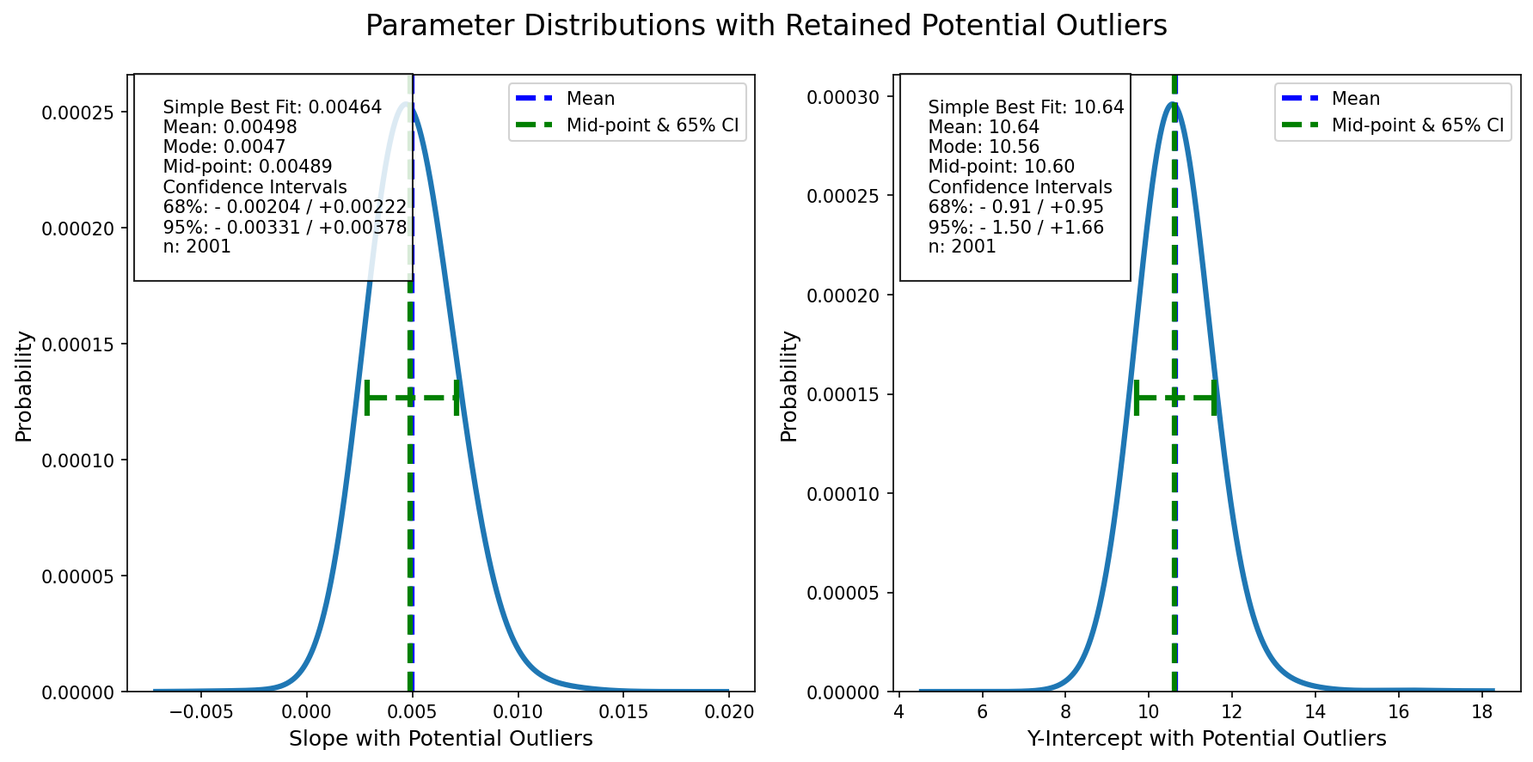
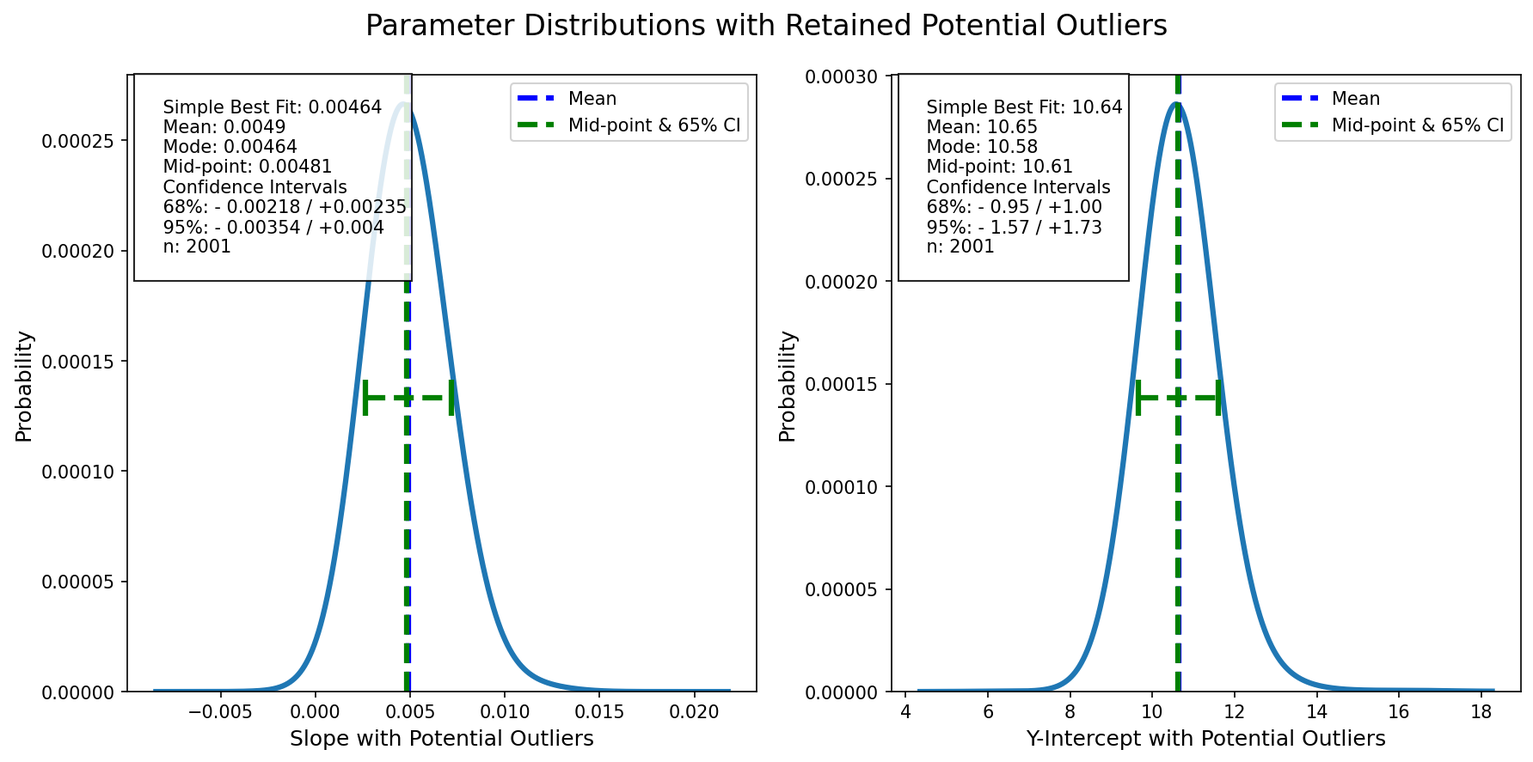
cleaned up readme and docs to reference new figures generated by examples.py

diff --git a/docs/source/_static/calibration_results.html b/docs/source/_static/calibration_results.html
@@ -1,64 +1,64 @@
-<div id="tjdybrfkrb" style="padding-left:0px;padding-right:0px;padding-top:10px;padding-bottom:10px;overflow-x:auto;overflow-y:auto;width:auto;height:auto;">
+<div id="aoakaakugw" style="padding-left:0px;padding-right:0px;padding-top:10px;padding-bottom:10px;overflow-x:auto;overflow-y:auto;width:auto;height:auto;">
 <style>
-#tjdybrfkrb table {
+#aoakaakugw table {
           font-family: -apple-system, BlinkMacSystemFont, 'Segoe UI', Roboto, Oxygen, Ubuntu, Cantarell, 'Helvetica Neue', 'Fira Sans', 'Droid Sans', Arial, sans-serif;
           -webkit-font-smoothing: antialiased;
           -moz-osx-font-smoothing: grayscale;
         }
 
-#tjdybrfkrb thead, tbody, tfoot, tr, td, th { border-style: none; }
+#aoakaakugw thead, tbody, tfoot, tr, td, th { border-style: none; }
  tr { background-color: transparent; }
-#tjdybrfkrb p { margin: 0; padding: 0; }
- #tjdybrfkrb .gt_table { display: table; border-collapse: collapse; line-height: normal; margin-left: auto; margin-right: auto; color: #333333; font-size: 16px; font-weight: normal; font-style: normal; background-color: #FFFFFF; width: auto; border-top-style: solid; border-top-width: 2px; border-top-color: #A8A8A8; border-right-style: none; border-right-width: 2px; border-right-color: #D3D3D3; border-bottom-style: solid; border-bottom-width: 2px; border-bottom-color: #A8A8A8; border-left-style: none; border-left-width: 2px; border-left-color: #D3D3D3; }
- #tjdybrfkrb .gt_caption { padding-top: 4px; padding-bottom: 4px; }
- #tjdybrfkrb .gt_title { color: #333333; font-size: 125%; font-weight: initial; padding-top: 4px; padding-bottom: 4px; padding-left: 5px; padding-right: 5px; border-bottom-color: #FFFFFF; border-bottom-width: 0; }
- #tjdybrfkrb .gt_subtitle { color: #333333; font-size: 85%; font-weight: initial; padding-top: 3px; padding-bottom: 5px; padding-left: 5px; padding-right: 5px; border-top-color: #FFFFFF; border-top-width: 0; }
- #tjdybrfkrb .gt_heading { background-color: #FFFFFF; text-align: center; border-bottom-color: #FFFFFF; border-left-style: none; border-left-width: 1px; border-left-color: #D3D3D3; border-right-style: none; border-right-width: 1px; border-right-color: #D3D3D3; }
- #tjdybrfkrb .gt_bottom_border { border-bottom-style: solid; border-bottom-width: 2px; border-bottom-color: #D3D3D3; }
- #tjdybrfkrb .gt_col_headings { border-top-style: solid; border-top-width: 2px; border-top-color: #D3D3D3; border-bottom-style: solid; border-bottom-width: 2px; border-bottom-color: #D3D3D3; border-left-style: none; border-left-width: 1px; border-left-color: #D3D3D3; border-right-style: none; border-right-width: 1px; border-right-color: #D3D3D3; }
- #tjdybrfkrb .gt_col_heading { color: #333333; background-color: #FFFFFF; font-size: 100%; font-weight: normal; text-transform: inherit; border-left-style: none; border-left-width: 1px; border-left-color: #D3D3D3; border-right-style: none; border-right-width: 1px; border-right-color: #D3D3D3; vertical-align: bottom; padding-top: 5px; padding-bottom: 5px; padding-left: 5px; padding-right: 5px; overflow-x: hidden; }
- #tjdybrfkrb .gt_column_spanner_outer { color: #333333; background-color: #FFFFFF; font-size: 100%; font-weight: normal; text-transform: inherit; padding-top: 0; padding-bottom: 0; padding-left: 4px; padding-right: 4px; }
- #tjdybrfkrb .gt_column_spanner_outer:first-child { padding-left: 0; }
- #tjdybrfkrb .gt_column_spanner_outer:last-child { padding-right: 0; }
- #tjdybrfkrb .gt_column_spanner { border-bottom-style: solid; border-bottom-width: 2px; border-bottom-color: #D3D3D3; vertical-align: bottom; padding-top: 5px; padding-bottom: 5px; overflow-x: hidden; display: inline-block; width: 100%; }
- #tjdybrfkrb .gt_spanner_row { border-bottom-style: hidden; }
- #tjdybrfkrb .gt_group_heading { padding-top: 8px; padding-bottom: 8px; padding-left: 5px; padding-right: 5px; color: #333333; background-color: #FFFFFF; font-size: 100%; font-weight: initial; text-transform: inherit; border-top-style: solid; border-top-width: 2px; border-top-color: #D3D3D3; border-bottom-style: solid; border-bottom-width: 2px; border-bottom-color: #D3D3D3; border-left-style: none; border-left-width: 1px; border-left-color: #D3D3D3; border-right-style: none; border-right-width: 1px; border-right-color: #D3D3D3; vertical-align: middle; text-align: left; }
- #tjdybrfkrb .gt_empty_group_heading { padding: 0.5px; color: #333333; background-color: #FFFFFF; font-size: 100%; font-weight: initial; border-top-style: solid; border-top-width: 2px; border-top-color: #D3D3D3; border-bottom-style: solid; border-bottom-width: 2px; border-bottom-color: #D3D3D3; vertical-align: middle; }
- #tjdybrfkrb .gt_from_md> :first-child { margin-top: 0; }
- #tjdybrfkrb .gt_from_md> :last-child { margin-bottom: 0; }
- #tjdybrfkrb .gt_row { padding-top: 8px; padding-bottom: 8px; padding-left: 5px; padding-right: 5px; margin: 10px; border-top-style: solid; border-top-width: 1px; border-top-color: #D3D3D3; border-left-style: none; border-left-width: 1px; border-left-color: #D3D3D3; border-right-style: none; border-right-width: 1px; border-right-color: #D3D3D3; vertical-align: middle; overflow-x: hidden; }
- #tjdybrfkrb .gt_stub { color: #333333; background-color: #FFFFFF; font-size: 100%; font-weight: initial; text-transform: inherit; border-right-style: solid; border-right-width: 2px; border-right-color: #D3D3D3; padding-left: 5px; padding-right: 5px; }
- #tjdybrfkrb .gt_indent_1 { text-indent: 5px; }
- #tjdybrfkrb .gt_indent_2 { text-indent: calc(5px * 2); }
- #tjdybrfkrb .gt_indent_3 { text-indent: calc(5px * 3); }
- #tjdybrfkrb .gt_indent_4 { text-indent: calc(5px * 4); }
- #tjdybrfkrb .gt_indent_5 { text-indent: calc(5px * 5); }
- #tjdybrfkrb .gt_stub_row_group { color: #333333; background-color: #FFFFFF; font-size: 100%; font-weight: initial; text-transform: inherit; border-right-style: solid; border-right-width: 2px; border-right-color: #D3D3D3; padding-left: 5px; padding-right: 5px; vertical-align: top; }
- #tjdybrfkrb .gt_row_group_first td { border-top-width: 2px; }
- #tjdybrfkrb .gt_row_group_first th { border-top-width: 2px; }
- #tjdybrfkrb .gt_striped { color: #333333; background-color: #F4F4F4; }
- #tjdybrfkrb .gt_table_body { border-top-style: solid; border-top-width: 2px; border-top-color: #D3D3D3; border-bottom-style: solid; border-bottom-width: 2px; border-bottom-color: #D3D3D3; }
- #tjdybrfkrb .gt_summary_row { color: #333333; background-color: #FFFFFF; text-transform: inherit; padding-top: 8px; padding-bottom: 8px; padding-left: 5px; padding-right: 5px; }
- #tjdybrfkrb .gt_first_summary_row { border-top-style: solid; border-top-width: 2px; border-top-color: #D3D3D3; }
- #tjdybrfkrb .gt_last_summary_row_top { border-bottom-style: solid; border-bottom-width: 2px; border-bottom-color: #D3D3D3; }
- #tjdybrfkrb .gt_grand_summary_row { color: #333333; background-color: #FFFFFF; text-transform: inherit; padding-top: 8px; padding-bottom: 8px; padding-left: 5px; padding-right: 5px; }
- #tjdybrfkrb .gt_first_grand_summary_row_bottom { border-top-style: double; border-top-width: 6px; border-top-color: #D3D3D3; }
- #tjdybrfkrb .gt_last_grand_summary_row_top { border-bottom-style: double; border-bottom-width: 6px; border-bottom-color: #D3D3D3; }
- #tjdybrfkrb .gt_sourcenotes { color: #333333; background-color: #FFFFFF; border-bottom-style: none; border-bottom-width: 2px; border-bottom-color: #D3D3D3; border-left-style: none; border-left-width: 2px; border-left-color: #D3D3D3; border-right-style: none; border-right-width: 2px; border-right-color: #D3D3D3; }
- #tjdybrfkrb .gt_sourcenote { font-size: 90%; padding-top: 4px; padding-bottom: 4px; padding-left: 5px; padding-right: 5px; text-align: left; }
- #tjdybrfkrb .gt_left { text-align: left; }
- #tjdybrfkrb .gt_center { text-align: center; }
- #tjdybrfkrb .gt_right { text-align: right; font-variant-numeric: tabular-nums; }
- #tjdybrfkrb .gt_font_normal { font-weight: normal; }
- #tjdybrfkrb .gt_font_bold { font-weight: bold; }
- #tjdybrfkrb .gt_font_italic { font-style: italic; }
- #tjdybrfkrb .gt_super { font-size: 65%; }
- #tjdybrfkrb .gt_footnotes { color: font-color(#FFFFFF); background-color: #FFFFFF; border-bottom-style: none; border-bottom-width: 2px; border-bottom-color: #D3D3D3; border-left-style: none; border-left-width: 2px; border-left-color: #D3D3D3; border-right-style: none; border-right-width: 2px; border-right-color: #D3D3D3; }
- #tjdybrfkrb .gt_footnote { margin: 0px; font-size: 90%; padding-top: 4px; padding-bottom: 4px; padding-left: 5px; padding-right: 5px; }
- #tjdybrfkrb .gt_sourcenotes { color: #333333; background-color: #FFFFFF; border-bottom-style: none; border-bottom-width: 2px; border-bottom-color: #D3D3D3; border-left-style: none; border-left-width: 2px; border-left-color: #D3D3D3; border-right-style: none; border-right-width: 2px; border-right-color: #D3D3D3; }
- #tjdybrfkrb .gt_sourcenote { font-size: 90%; padding-top: 4px; padding-bottom: 4px; padding-left: 5px; padding-right: 5px; text-align: left; }
- #tjdybrfkrb .gt_footnote_marks { font-size: 75%; vertical-align: 0.4em; position: initial; }
- #tjdybrfkrb .gt_asterisk { font-size: 100%; vertical-align: 0; }
+#aoakaakugw p { margin: 0; padding: 0; }
+ #aoakaakugw .gt_table { display: table; border-collapse: collapse; line-height: normal; margin-left: auto; margin-right: auto; color: #333333; font-size: 16px; font-weight: normal; font-style: normal; background-color: #FFFFFF; width: auto; border-top-style: solid; border-top-width: 2px; border-top-color: #A8A8A8; border-right-style: none; border-right-width: 2px; border-right-color: #D3D3D3; border-bottom-style: solid; border-bottom-width: 2px; border-bottom-color: #A8A8A8; border-left-style: none; border-left-width: 2px; border-left-color: #D3D3D3; }
+ #aoakaakugw .gt_caption { padding-top: 4px; padding-bottom: 4px; }
+ #aoakaakugw .gt_title { color: #333333; font-size: 125%; font-weight: initial; padding-top: 4px; padding-bottom: 4px; padding-left: 5px; padding-right: 5px; border-bottom-color: #FFFFFF; border-bottom-width: 0; }
+ #aoakaakugw .gt_subtitle { color: #333333; font-size: 85%; font-weight: initial; padding-top: 3px; padding-bottom: 5px; padding-left: 5px; padding-right: 5px; border-top-color: #FFFFFF; border-top-width: 0; }
+ #aoakaakugw .gt_heading { background-color: #FFFFFF; text-align: center; border-bottom-color: #FFFFFF; border-left-style: none; border-left-width: 1px; border-left-color: #D3D3D3; border-right-style: none; border-right-width: 1px; border-right-color: #D3D3D3; }
+ #aoakaakugw .gt_bottom_border { border-bottom-style: solid; border-bottom-width: 2px; border-bottom-color: #D3D3D3; }
+ #aoakaakugw .gt_col_headings { border-top-style: solid; border-top-width: 2px; border-top-color: #D3D3D3; border-bottom-style: solid; border-bottom-width: 2px; border-bottom-color: #D3D3D3; border-left-style: none; border-left-width: 1px; border-left-color: #D3D3D3; border-right-style: none; border-right-width: 1px; border-right-color: #D3D3D3; }
+ #aoakaakugw .gt_col_heading { color: #333333; background-color: #FFFFFF; font-size: 100%; font-weight: normal; text-transform: inherit; border-left-style: none; border-left-width: 1px; border-left-color: #D3D3D3; border-right-style: none; border-right-width: 1px; border-right-color: #D3D3D3; vertical-align: bottom; padding-top: 5px; padding-bottom: 5px; padding-left: 5px; padding-right: 5px; overflow-x: hidden; }
+ #aoakaakugw .gt_column_spanner_outer { color: #333333; background-color: #FFFFFF; font-size: 100%; font-weight: normal; text-transform: inherit; padding-top: 0; padding-bottom: 0; padding-left: 4px; padding-right: 4px; }
+ #aoakaakugw .gt_column_spanner_outer:first-child { padding-left: 0; }
+ #aoakaakugw .gt_column_spanner_outer:last-child { padding-right: 0; }
+ #aoakaakugw .gt_column_spanner { border-bottom-style: solid; border-bottom-width: 2px; border-bottom-color: #D3D3D3; vertical-align: bottom; padding-top: 5px; padding-bottom: 5px; overflow-x: hidden; display: inline-block; width: 100%; }
+ #aoakaakugw .gt_spanner_row { border-bottom-style: hidden; }
+ #aoakaakugw .gt_group_heading { padding-top: 8px; padding-bottom: 8px; padding-left: 5px; padding-right: 5px; color: #333333; background-color: #FFFFFF; font-size: 100%; font-weight: initial; text-transform: inherit; border-top-style: solid; border-top-width: 2px; border-top-color: #D3D3D3; border-bottom-style: solid; border-bottom-width: 2px; border-bottom-color: #D3D3D3; border-left-style: none; border-left-width: 1px; border-left-color: #D3D3D3; border-right-style: none; border-right-width: 1px; border-right-color: #D3D3D3; vertical-align: middle; text-align: left; }
+ #aoakaakugw .gt_empty_group_heading { padding: 0.5px; color: #333333; background-color: #FFFFFF; font-size: 100%; font-weight: initial; border-top-style: solid; border-top-width: 2px; border-top-color: #D3D3D3; border-bottom-style: solid; border-bottom-width: 2px; border-bottom-color: #D3D3D3; vertical-align: middle; }
+ #aoakaakugw .gt_from_md> :first-child { margin-top: 0; }
+ #aoakaakugw .gt_from_md> :last-child { margin-bottom: 0; }
+ #aoakaakugw .gt_row { padding-top: 8px; padding-bottom: 8px; padding-left: 5px; padding-right: 5px; margin: 10px; border-top-style: solid; border-top-width: 1px; border-top-color: #D3D3D3; border-left-style: none; border-left-width: 1px; border-left-color: #D3D3D3; border-right-style: none; border-right-width: 1px; border-right-color: #D3D3D3; vertical-align: middle; overflow-x: hidden; }
+ #aoakaakugw .gt_stub { color: #333333; background-color: #FFFFFF; font-size: 100%; font-weight: initial; text-transform: inherit; border-right-style: solid; border-right-width: 2px; border-right-color: #D3D3D3; padding-left: 5px; padding-right: 5px; }
+ #aoakaakugw .gt_indent_1 { text-indent: 5px; }
+ #aoakaakugw .gt_indent_2 { text-indent: calc(5px * 2); }
+ #aoakaakugw .gt_indent_3 { text-indent: calc(5px * 3); }
+ #aoakaakugw .gt_indent_4 { text-indent: calc(5px * 4); }
+ #aoakaakugw .gt_indent_5 { text-indent: calc(5px * 5); }
+ #aoakaakugw .gt_stub_row_group { color: #333333; background-color: #FFFFFF; font-size: 100%; font-weight: initial; text-transform: inherit; border-right-style: solid; border-right-width: 2px; border-right-color: #D3D3D3; padding-left: 5px; padding-right: 5px; vertical-align: top; }
+ #aoakaakugw .gt_row_group_first td { border-top-width: 2px; }
+ #aoakaakugw .gt_row_group_first th { border-top-width: 2px; }
+ #aoakaakugw .gt_striped { color: #333333; background-color: #F4F4F4; }
+ #aoakaakugw .gt_table_body { border-top-style: solid; border-top-width: 2px; border-top-color: #D3D3D3; border-bottom-style: solid; border-bottom-width: 2px; border-bottom-color: #D3D3D3; }
+ #aoakaakugw .gt_summary_row { color: #333333; background-color: #FFFFFF; text-transform: inherit; padding-top: 8px; padding-bottom: 8px; padding-left: 5px; padding-right: 5px; }
+ #aoakaakugw .gt_first_summary_row { border-top-style: solid; border-top-width: 2px; border-top-color: #D3D3D3; }
+ #aoakaakugw .gt_last_summary_row_top { border-bottom-style: solid; border-bottom-width: 2px; border-bottom-color: #D3D3D3; }
+ #aoakaakugw .gt_grand_summary_row { color: #333333; background-color: #FFFFFF; text-transform: inherit; padding-top: 8px; padding-bottom: 8px; padding-left: 5px; padding-right: 5px; }
+ #aoakaakugw .gt_first_grand_summary_row_bottom { border-top-style: double; border-top-width: 6px; border-top-color: #D3D3D3; }
+ #aoakaakugw .gt_last_grand_summary_row_top { border-bottom-style: double; border-bottom-width: 6px; border-bottom-color: #D3D3D3; }
+ #aoakaakugw .gt_sourcenotes { color: #333333; background-color: #FFFFFF; border-bottom-style: none; border-bottom-width: 2px; border-bottom-color: #D3D3D3; border-left-style: none; border-left-width: 2px; border-left-color: #D3D3D3; border-right-style: none; border-right-width: 2px; border-right-color: #D3D3D3; }
+ #aoakaakugw .gt_sourcenote { font-size: 90%; padding-top: 4px; padding-bottom: 4px; padding-left: 5px; padding-right: 5px; text-align: left; }
+ #aoakaakugw .gt_left { text-align: left; }
+ #aoakaakugw .gt_center { text-align: center; }
+ #aoakaakugw .gt_right { text-align: right; font-variant-numeric: tabular-nums; }
+ #aoakaakugw .gt_font_normal { font-weight: normal; }
+ #aoakaakugw .gt_font_bold { font-weight: bold; }
+ #aoakaakugw .gt_font_italic { font-style: italic; }
+ #aoakaakugw .gt_super { font-size: 65%; }
+ #aoakaakugw .gt_footnotes { color: font-color(#FFFFFF); background-color: #FFFFFF; border-bottom-style: none; border-bottom-width: 2px; border-bottom-color: #D3D3D3; border-left-style: none; border-left-width: 2px; border-left-color: #D3D3D3; border-right-style: none; border-right-width: 2px; border-right-color: #D3D3D3; }
+ #aoakaakugw .gt_footnote { margin: 0px; font-size: 90%; padding-top: 4px; padding-bottom: 4px; padding-left: 5px; padding-right: 5px; }
+ #aoakaakugw .gt_sourcenotes { color: #333333; background-color: #FFFFFF; border-bottom-style: none; border-bottom-width: 2px; border-bottom-color: #D3D3D3; border-left-style: none; border-left-width: 2px; border-left-color: #D3D3D3; border-right-style: none; border-right-width: 2px; border-right-color: #D3D3D3; }
+ #aoakaakugw .gt_sourcenote { font-size: 90%; padding-top: 4px; padding-bottom: 4px; padding-left: 5px; padding-right: 5px; text-align: left; }
+ #aoakaakugw .gt_footnote_marks { font-size: 75%; vertical-align: 0.4em; position: initial; }
+ #aoakaakugw .gt_asterisk { font-size: 100%; vertical-align: 0; }
  
 </style>
 <table class="gt_table" data-quarto-disable-processing="false" data-quarto-bootstrap="false">
@@ -98,37 +98,37 @@
     <td class="gt_row gt_right">10.99</td>
     <td class="gt_row gt_right">11.75</td>
     <td class="gt_row gt_right">10.70</td>
-    <td class="gt_row gt_right">12.67</td>
+    <td class="gt_row gt_right">12.59</td>
   </tr>
   <tr>
     <th class="gt_row gt_left gt_stub">Unknown 2</th>
     <td class="gt_row gt_right">400</td>
     <td class="gt_row gt_right">12.49</td>
-    <td class="gt_row gt_right">12.56</td>
-    <td class="gt_row gt_right">12.14</td>
-    <td class="gt_row gt_right">13.09</td>
-    <td class="gt_row gt_right">11.85</td>
-    <td class="gt_row gt_right">13.94</td>
+    <td class="gt_row gt_right">12.54</td>
+    <td class="gt_row gt_right">12.13</td>
+    <td class="gt_row gt_right">13.06</td>
+    <td class="gt_row gt_right">11.84</td>
+    <td class="gt_row gt_right">13.80</td>
   </tr>
   <tr>
     <th class="gt_row gt_left gt_stub">Unknown 3</th>
     <td class="gt_row gt_right">850</td>
     <td class="gt_row gt_right">14.58</td>
-    <td class="gt_row gt_right">14.73</td>
-    <td class="gt_row gt_right">13.89</td>
-    <td class="gt_row gt_right">15.88</td>
-    <td class="gt_row gt_right">13.31</td>
-    <td class="gt_row gt_right">17.09</td>
+    <td class="gt_row gt_right">14.66</td>
+    <td class="gt_row gt_right">13.85</td>
+    <td class="gt_row gt_right">15.79</td>
+    <td class="gt_row gt_right">13.30</td>
+    <td class="gt_row gt_right">17.01</td>
   </tr>
   <tr>
     <th class="gt_row gt_left gt_stub">Unknown 4</th>
     <td class="gt_row gt_right">1,600</td>
     <td class="gt_row gt_right">18.06</td>
-    <td class="gt_row gt_right">18.23</td>
-    <td class="gt_row gt_right">16.67</td>
-    <td class="gt_row gt_right">20.65</td>
+    <td class="gt_row gt_right">18.13</td>
+    <td class="gt_row gt_right">16.57</td>
+    <td class="gt_row gt_right">20.54</td>
     <td class="gt_row gt_right">15.49</td>
-    <td class="gt_row gt_right">23.19</td>
+    <td class="gt_row gt_right">23.13</td>
   </tr>
 </tbody>
 <tfoot><tr class="gt_sourcenotes"><td class="gt_sourcenote" colspan="8"><span class="gt_from_md">Calibration fit: <strong>concentration (ppm) = slope × count rate + intercept</strong>, fit with two retained potential outliers. Confidence intervals propagated from 2000 bootstrap resamples of the outlier-affected ODR fit.</span></td></tr></tfoot>

diff --git a/examples/calibration_results.html b/examples/calibration_results.html
@@ -1,64 +1,64 @@
-<div id="tjdybrfkrb" style="padding-left:0px;padding-right:0px;padding-top:10px;padding-bottom:10px;overflow-x:auto;overflow-y:auto;width:auto;height:auto;">
+<div id="aoakaakugw" style="padding-left:0px;padding-right:0px;padding-top:10px;padding-bottom:10px;overflow-x:auto;overflow-y:auto;width:auto;height:auto;">
 <style>
-#tjdybrfkrb table {
+#aoakaakugw table {
           font-family: -apple-system, BlinkMacSystemFont, 'Segoe UI', Roboto, Oxygen, Ubuntu, Cantarell, 'Helvetica Neue', 'Fira Sans', 'Droid Sans', Arial, sans-serif;
           -webkit-font-smoothing: antialiased;
           -moz-osx-font-smoothing: grayscale;
         }
 
-#tjdybrfkrb thead, tbody, tfoot, tr, td, th { border-style: none; }
+#aoakaakugw thead, tbody, tfoot, tr, td, th { border-style: none; }
  tr { background-color: transparent; }
-#tjdybrfkrb p { margin: 0; padding: 0; }
- #tjdybrfkrb .gt_table { display: table; border-collapse: collapse; line-height: normal; margin-left: auto; margin-right: auto; color: #333333; font-size: 16px; font-weight: normal; font-style: normal; background-color: #FFFFFF; width: auto; border-top-style: solid; border-top-width: 2px; border-top-color: #A8A8A8; border-right-style: none; border-right-width: 2px; border-right-color: #D3D3D3; border-bottom-style: solid; border-bottom-width: 2px; border-bottom-color: #A8A8A8; border-left-style: none; border-left-width: 2px; border-left-color: #D3D3D3; }
- #tjdybrfkrb .gt_caption { padding-top: 4px; padding-bottom: 4px; }
- #tjdybrfkrb .gt_title { color: #333333; font-size: 125%; font-weight: initial; padding-top: 4px; padding-bottom: 4px; padding-left: 5px; padding-right: 5px; border-bottom-color: #FFFFFF; border-bottom-width: 0; }
- #tjdybrfkrb .gt_subtitle { color: #333333; font-size: 85%; font-weight: initial; padding-top: 3px; padding-bottom: 5px; padding-left: 5px; padding-right: 5px; border-top-color: #FFFFFF; border-top-width: 0; }
- #tjdybrfkrb .gt_heading { background-color: #FFFFFF; text-align: center; border-bottom-color: #FFFFFF; border-left-style: none; border-left-width: 1px; border-left-color: #D3D3D3; border-right-style: none; border-right-width: 1px; border-right-color: #D3D3D3; }
- #tjdybrfkrb .gt_bottom_border { border-bottom-style: solid; border-bottom-width: 2px; border-bottom-color: #D3D3D3; }
- #tjdybrfkrb .gt_col_headings { border-top-style: solid; border-top-width: 2px; border-top-color: #D3D3D3; border-bottom-style: solid; border-bottom-width: 2px; border-bottom-color: #D3D3D3; border-left-style: none; border-left-width: 1px; border-left-color: #D3D3D3; border-right-style: none; border-right-width: 1px; border-right-color: #D3D3D3; }
- #tjdybrfkrb .gt_col_heading { color: #333333; background-color: #FFFFFF; font-size: 100%; font-weight: normal; text-transform: inherit; border-left-style: none; border-left-width: 1px; border-left-color: #D3D3D3; border-right-style: none; border-right-width: 1px; border-right-color: #D3D3D3; vertical-align: bottom; padding-top: 5px; padding-bottom: 5px; padding-left: 5px; padding-right: 5px; overflow-x: hidden; }
- #tjdybrfkrb .gt_column_spanner_outer { color: #333333; background-color: #FFFFFF; font-size: 100%; font-weight: normal; text-transform: inherit; padding-top: 0; padding-bottom: 0; padding-left: 4px; padding-right: 4px; }
- #tjdybrfkrb .gt_column_spanner_outer:first-child { padding-left: 0; }
- #tjdybrfkrb .gt_column_spanner_outer:last-child { padding-right: 0; }
- #tjdybrfkrb .gt_column_spanner { border-bottom-style: solid; border-bottom-width: 2px; border-bottom-color: #D3D3D3; vertical-align: bottom; padding-top: 5px; padding-bottom: 5px; overflow-x: hidden; display: inline-block; width: 100%; }
- #tjdybrfkrb .gt_spanner_row { border-bottom-style: hidden; }
- #tjdybrfkrb .gt_group_heading { padding-top: 8px; padding-bottom: 8px; padding-left: 5px; padding-right: 5px; color: #333333; background-color: #FFFFFF; font-size: 100%; font-weight: initial; text-transform: inherit; border-top-style: solid; border-top-width: 2px; border-top-color: #D3D3D3; border-bottom-style: solid; border-bottom-width: 2px; border-bottom-color: #D3D3D3; border-left-style: none; border-left-width: 1px; border-left-color: #D3D3D3; border-right-style: none; border-right-width: 1px; border-right-color: #D3D3D3; vertical-align: middle; text-align: left; }
- #tjdybrfkrb .gt_empty_group_heading { padding: 0.5px; color: #333333; background-color: #FFFFFF; font-size: 100%; font-weight: initial; border-top-style: solid; border-top-width: 2px; border-top-color: #D3D3D3; border-bottom-style: solid; border-bottom-width: 2px; border-bottom-color: #D3D3D3; vertical-align: middle; }
- #tjdybrfkrb .gt_from_md> :first-child { margin-top: 0; }
- #tjdybrfkrb .gt_from_md> :last-child { margin-bottom: 0; }
- #tjdybrfkrb .gt_row { padding-top: 8px; padding-bottom: 8px; padding-left: 5px; padding-right: 5px; margin: 10px; border-top-style: solid; border-top-width: 1px; border-top-color: #D3D3D3; border-left-style: none; border-left-width: 1px; border-left-color: #D3D3D3; border-right-style: none; border-right-width: 1px; border-right-color: #D3D3D3; vertical-align: middle; overflow-x: hidden; }
- #tjdybrfkrb .gt_stub { color: #333333; background-color: #FFFFFF; font-size: 100%; font-weight: initial; text-transform: inherit; border-right-style: solid; border-right-width: 2px; border-right-color: #D3D3D3; padding-left: 5px; padding-right: 5px; }
- #tjdybrfkrb .gt_indent_1 { text-indent: 5px; }
- #tjdybrfkrb .gt_indent_2 { text-indent: calc(5px * 2); }
- #tjdybrfkrb .gt_indent_3 { text-indent: calc(5px * 3); }
- #tjdybrfkrb .gt_indent_4 { text-indent: calc(5px * 4); }
- #tjdybrfkrb .gt_indent_5 { text-indent: calc(5px * 5); }
- #tjdybrfkrb .gt_stub_row_group { color: #333333; background-color: #FFFFFF; font-size: 100%; font-weight: initial; text-transform: inherit; border-right-style: solid; border-right-width: 2px; border-right-color: #D3D3D3; padding-left: 5px; padding-right: 5px; vertical-align: top; }
- #tjdybrfkrb .gt_row_group_first td { border-top-width: 2px; }
- #tjdybrfkrb .gt_row_group_first th { border-top-width: 2px; }
- #tjdybrfkrb .gt_striped { color: #333333; background-color: #F4F4F4; }
- #tjdybrfkrb .gt_table_body { border-top-style: solid; border-top-width: 2px; border-top-color: #D3D3D3; border-bottom-style: solid; border-bottom-width: 2px; border-bottom-color: #D3D3D3; }
- #tjdybrfkrb .gt_summary_row { color: #333333; background-color: #FFFFFF; text-transform: inherit; padding-top: 8px; padding-bottom: 8px; padding-left: 5px; padding-right: 5px; }
- #tjdybrfkrb .gt_first_summary_row { border-top-style: solid; border-top-width: 2px; border-top-color: #D3D3D3; }
- #tjdybrfkrb .gt_last_summary_row_top { border-bottom-style: solid; border-bottom-width: 2px; border-bottom-color: #D3D3D3; }
- #tjdybrfkrb .gt_grand_summary_row { color: #333333; background-color: #FFFFFF; text-transform: inherit; padding-top: 8px; padding-bottom: 8px; padding-left: 5px; padding-right: 5px; }
- #tjdybrfkrb .gt_first_grand_summary_row_bottom { border-top-style: double; border-top-width: 6px; border-top-color: #D3D3D3; }
- #tjdybrfkrb .gt_last_grand_summary_row_top { border-bottom-style: double; border-bottom-width: 6px; border-bottom-color: #D3D3D3; }
- #tjdybrfkrb .gt_sourcenotes { color: #333333; background-color: #FFFFFF; border-bottom-style: none; border-bottom-width: 2px; border-bottom-color: #D3D3D3; border-left-style: none; border-left-width: 2px; border-left-color: #D3D3D3; border-right-style: none; border-right-width: 2px; border-right-color: #D3D3D3; }
- #tjdybrfkrb .gt_sourcenote { font-size: 90%; padding-top: 4px; padding-bottom: 4px; padding-left: 5px; padding-right: 5px; text-align: left; }
- #tjdybrfkrb .gt_left { text-align: left; }
- #tjdybrfkrb .gt_center { text-align: center; }
- #tjdybrfkrb .gt_right { text-align: right; font-variant-numeric: tabular-nums; }
- #tjdybrfkrb .gt_font_normal { font-weight: normal; }
- #tjdybrfkrb .gt_font_bold { font-weight: bold; }
- #tjdybrfkrb .gt_font_italic { font-style: italic; }
- #tjdybrfkrb .gt_super { font-size: 65%; }
- #tjdybrfkrb .gt_footnotes { color: font-color(#FFFFFF); background-color: #FFFFFF; border-bottom-style: none; border-bottom-width: 2px; border-bottom-color: #D3D3D3; border-left-style: none; border-left-width: 2px; border-left-color: #D3D3D3; border-right-style: none; border-right-width: 2px; border-right-color: #D3D3D3; }
- #tjdybrfkrb .gt_footnote { margin: 0px; font-size: 90%; padding-top: 4px; padding-bottom: 4px; padding-left: 5px; padding-right: 5px; }
- #tjdybrfkrb .gt_sourcenotes { color: #333333; background-color: #FFFFFF; border-bottom-style: none; border-bottom-width: 2px; border-bottom-color: #D3D3D3; border-left-style: none; border-left-width: 2px; border-left-color: #D3D3D3; border-right-style: none; border-right-width: 2px; border-right-color: #D3D3D3; }
- #tjdybrfkrb .gt_sourcenote { font-size: 90%; padding-top: 4px; padding-bottom: 4px; padding-left: 5px; padding-right: 5px; text-align: left; }
- #tjdybrfkrb .gt_footnote_marks { font-size: 75%; vertical-align: 0.4em; position: initial; }
- #tjdybrfkrb .gt_asterisk { font-size: 100%; vertical-align: 0; }
+#aoakaakugw p { margin: 0; padding: 0; }
+ #aoakaakugw .gt_table { display: table; border-collapse: collapse; line-height: normal; margin-left: auto; margin-right: auto; color: #333333; font-size: 16px; font-weight: normal; font-style: normal; background-color: #FFFFFF; width: auto; border-top-style: solid; border-top-width: 2px; border-top-color: #A8A8A8; border-right-style: none; border-right-width: 2px; border-right-color: #D3D3D3; border-bottom-style: solid; border-bottom-width: 2px; border-bottom-color: #A8A8A8; border-left-style: none; border-left-width: 2px; border-left-color: #D3D3D3; }
+ #aoakaakugw .gt_caption { padding-top: 4px; padding-bottom: 4px; }
+ #aoakaakugw .gt_title { color: #333333; font-size: 125%; font-weight: initial; padding-top: 4px; padding-bottom: 4px; padding-left: 5px; padding-right: 5px; border-bottom-color: #FFFFFF; border-bottom-width: 0; }
+ #aoakaakugw .gt_subtitle { color: #333333; font-size: 85%; font-weight: initial; padding-top: 3px; padding-bottom: 5px; padding-left: 5px; padding-right: 5px; border-top-color: #FFFFFF; border-top-width: 0; }
+ #aoakaakugw .gt_heading { background-color: #FFFFFF; text-align: center; border-bottom-color: #FFFFFF; border-left-style: none; border-left-width: 1px; border-left-color: #D3D3D3; border-right-style: none; border-right-width: 1px; border-right-color: #D3D3D3; }
+ #aoakaakugw .gt_bottom_border { border-bottom-style: solid; border-bottom-width: 2px; border-bottom-color: #D3D3D3; }
+ #aoakaakugw .gt_col_headings { border-top-style: solid; border-top-width: 2px; border-top-color: #D3D3D3; border-bottom-style: solid; border-bottom-width: 2px; border-bottom-color: #D3D3D3; border-left-style: none; border-left-width: 1px; border-left-color: #D3D3D3; border-right-style: none; border-right-width: 1px; border-right-color: #D3D3D3; }
+ #aoakaakugw .gt_col_heading { color: #333333; background-color: #FFFFFF; font-size: 100%; font-weight: normal; text-transform: inherit; border-left-style: none; border-left-width: 1px; border-left-color: #D3D3D3; border-right-style: none; border-right-width: 1px; border-right-color: #D3D3D3; vertical-align: bottom; padding-top: 5px; padding-bottom: 5px; padding-left: 5px; padding-right: 5px; overflow-x: hidden; }
+ #aoakaakugw .gt_column_spanner_outer { color: #333333; background-color: #FFFFFF; font-size: 100%; font-weight: normal; text-transform: inherit; padding-top: 0; padding-bottom: 0; padding-left: 4px; padding-right: 4px; }
+ #aoakaakugw .gt_column_spanner_outer:first-child { padding-left: 0; }
+ #aoakaakugw .gt_column_spanner_outer:last-child { padding-right: 0; }
+ #aoakaakugw .gt_column_spanner { border-bottom-style: solid; border-bottom-width: 2px; border-bottom-color: #D3D3D3; vertical-align: bottom; padding-top: 5px; padding-bottom: 5px; overflow-x: hidden; display: inline-block; width: 100%; }
+ #aoakaakugw .gt_spanner_row { border-bottom-style: hidden; }
+ #aoakaakugw .gt_group_heading { padding-top: 8px; padding-bottom: 8px; padding-left: 5px; padding-right: 5px; color: #333333; background-color: #FFFFFF; font-size: 100%; font-weight: initial; text-transform: inherit; border-top-style: solid; border-top-width: 2px; border-top-color: #D3D3D3; border-bottom-style: solid; border-bottom-width: 2px; border-bottom-color: #D3D3D3; border-left-style: none; border-left-width: 1px; border-left-color: #D3D3D3; border-right-style: none; border-right-width: 1px; border-right-color: #D3D3D3; vertical-align: middle; text-align: left; }
+ #aoakaakugw .gt_empty_group_heading { padding: 0.5px; color: #333333; background-color: #FFFFFF; font-size: 100%; font-weight: initial; border-top-style: solid; border-top-width: 2px; border-top-color: #D3D3D3; border-bottom-style: solid; border-bottom-width: 2px; border-bottom-color: #D3D3D3; vertical-align: middle; }
+ #aoakaakugw .gt_from_md> :first-child { margin-top: 0; }
+ #aoakaakugw .gt_from_md> :last-child { margin-bottom: 0; }
+ #aoakaakugw .gt_row { padding-top: 8px; padding-bottom: 8px; padding-left: 5px; padding-right: 5px; margin: 10px; border-top-style: solid; border-top-width: 1px; border-top-color: #D3D3D3; border-left-style: none; border-left-width: 1px; border-left-color: #D3D3D3; border-right-style: none; border-right-width: 1px; border-right-color: #D3D3D3; vertical-align: middle; overflow-x: hidden; }
+ #aoakaakugw .gt_stub { color: #333333; background-color: #FFFFFF; font-size: 100%; font-weight: initial; text-transform: inherit; border-right-style: solid; border-right-width: 2px; border-right-color: #D3D3D3; padding-left: 5px; padding-right: 5px; }
+ #aoakaakugw .gt_indent_1 { text-indent: 5px; }
+ #aoakaakugw .gt_indent_2 { text-indent: calc(5px * 2); }
+ #aoakaakugw .gt_indent_3 { text-indent: calc(5px * 3); }
+ #aoakaakugw .gt_indent_4 { text-indent: calc(5px * 4); }
+ #aoakaakugw .gt_indent_5 { text-indent: calc(5px * 5); }
+ #aoakaakugw .gt_stub_row_group { color: #333333; background-color: #FFFFFF; font-size: 100%; font-weight: initial; text-transform: inherit; border-right-style: solid; border-right-width: 2px; border-right-color: #D3D3D3; padding-left: 5px; padding-right: 5px; vertical-align: top; }
+ #aoakaakugw .gt_row_group_first td { border-top-width: 2px; }
+ #aoakaakugw .gt_row_group_first th { border-top-width: 2px; }
+ #aoakaakugw .gt_striped { color: #333333; background-color: #F4F4F4; }
+ #aoakaakugw .gt_table_body { border-top-style: solid; border-top-width: 2px; border-top-color: #D3D3D3; border-bottom-style: solid; border-bottom-width: 2px; border-bottom-color: #D3D3D3; }
+ #aoakaakugw .gt_summary_row { color: #333333; background-color: #FFFFFF; text-transform: inherit; padding-top: 8px; padding-bottom: 8px; padding-left: 5px; padding-right: 5px; }
+ #aoakaakugw .gt_first_summary_row { border-top-style: solid; border-top-width: 2px; border-top-color: #D3D3D3; }
+ #aoakaakugw .gt_last_summary_row_top { border-bottom-style: solid; border-bottom-width: 2px; border-bottom-color: #D3D3D3; }
+ #aoakaakugw .gt_grand_summary_row { color: #333333; background-color: #FFFFFF; text-transform: inherit; padding-top: 8px; padding-bottom: 8px; padding-left: 5px; padding-right: 5px; }
+ #aoakaakugw .gt_first_grand_summary_row_bottom { border-top-style: double; border-top-width: 6px; border-top-color: #D3D3D3; }
+ #aoakaakugw .gt_last_grand_summary_row_top { border-bottom-style: double; border-bottom-width: 6px; border-bottom-color: #D3D3D3; }
+ #aoakaakugw .gt_sourcenotes { color: #333333; background-color: #FFFFFF; border-bottom-style: none; border-bottom-width: 2px; border-bottom-color: #D3D3D3; border-left-style: none; border-left-width: 2px; border-left-color: #D3D3D3; border-right-style: none; border-right-width: 2px; border-right-color: #D3D3D3; }
+ #aoakaakugw .gt_sourcenote { font-size: 90%; padding-top: 4px; padding-bottom: 4px; padding-left: 5px; padding-right: 5px; text-align: left; }
+ #aoakaakugw .gt_left { text-align: left; }
+ #aoakaakugw .gt_center { text-align: center; }
+ #aoakaakugw .gt_right { text-align: right; font-variant-numeric: tabular-nums; }
+ #aoakaakugw .gt_font_normal { font-weight: normal; }
+ #aoakaakugw .gt_font_bold { font-weight: bold; }
+ #aoakaakugw .gt_font_italic { font-style: italic; }
+ #aoakaakugw .gt_super { font-size: 65%; }
+ #aoakaakugw .gt_footnotes { color: font-color(#FFFFFF); background-color: #FFFFFF; border-bottom-style: none; border-bottom-width: 2px; border-bottom-color: #D3D3D3; border-left-style: none; border-left-width: 2px; border-left-color: #D3D3D3; border-right-style: none; border-right-width: 2px; border-right-color: #D3D3D3; }
+ #aoakaakugw .gt_footnote { margin: 0px; font-size: 90%; padding-top: 4px; padding-bottom: 4px; padding-left: 5px; padding-right: 5px; }
+ #aoakaakugw .gt_sourcenotes { color: #333333; background-color: #FFFFFF; border-bottom-style: none; border-bottom-width: 2px; border-bottom-color: #D3D3D3; border-left-style: none; border-left-width: 2px; border-left-color: #D3D3D3; border-right-style: none; border-right-width: 2px; border-right-color: #D3D3D3; }
+ #aoakaakugw .gt_sourcenote { font-size: 90%; padding-top: 4px; padding-bottom: 4px; padding-left: 5px; padding-right: 5px; text-align: left; }
+ #aoakaakugw .gt_footnote_marks { font-size: 75%; vertical-align: 0.4em; position: initial; }
+ #aoakaakugw .gt_asterisk { font-size: 100%; vertical-align: 0; }
  
 </style>
 <table class="gt_table" data-quarto-disable-processing="false" data-quarto-bootstrap="false">
@@ -98,37 +98,37 @@
     <td class="gt_row gt_right">10.99</td>
     <td class="gt_row gt_right">11.75</td>
     <td class="gt_row gt_right">10.70</td>
-    <td class="gt_row gt_right">12.67</td>
+    <td class="gt_row gt_right">12.59</td>
   </tr>
   <tr>
     <th class="gt_row gt_left gt_stub">Unknown 2</th>
     <td class="gt_row gt_right">400</td>
     <td class="gt_row gt_right">12.49</td>
-    <td class="gt_row gt_right">12.56</td>
-    <td class="gt_row gt_right">12.14</td>
-    <td class="gt_row gt_right">13.09</td>
-    <td class="gt_row gt_right">11.85</td>
-    <td class="gt_row gt_right">13.94</td>
+    <td class="gt_row gt_right">12.54</td>
+    <td class="gt_row gt_right">12.13</td>
+    <td class="gt_row gt_right">13.06</td>
+    <td class="gt_row gt_right">11.84</td>
+    <td class="gt_row gt_right">13.80</td>
   </tr>
   <tr>
     <th class="gt_row gt_left gt_stub">Unknown 3</th>
     <td class="gt_row gt_right">850</td>
     <td class="gt_row gt_right">14.58</td>
-    <td class="gt_row gt_right">14.73</td>
-    <td class="gt_row gt_right">13.89</td>
-    <td class="gt_row gt_right">15.88</td>
-    <td class="gt_row gt_right">13.31</td>
-    <td class="gt_row gt_right">17.09</td>
+    <td class="gt_row gt_right">14.66</td>
+    <td class="gt_row gt_right">13.85</td>
+    <td class="gt_row gt_right">15.79</td>
+    <td class="gt_row gt_right">13.30</td>
+    <td class="gt_row gt_right">17.01</td>
   </tr>
   <tr>
     <th class="gt_row gt_left gt_stub">Unknown 4</th>
     <td class="gt_row gt_right">1,600</td>
     <td class="gt_row gt_right">18.06</td>
-    <td class="gt_row gt_right">18.23</td>
-    <td class="gt_row gt_right">16.67</td>
-    <td class="gt_row gt_right">20.65</td>
+    <td class="gt_row gt_right">18.13</td>
+    <td class="gt_row gt_right">16.57</td>
+    <td class="gt_row gt_right">20.54</td>
     <td class="gt_row gt_right">15.49</td>
-    <td class="gt_row gt_right">23.19</td>
+    <td class="gt_row gt_right">23.13</td>
   </tr>
 </tbody>
 <tfoot><tr class="gt_sourcenotes"><td class="gt_sourcenote" colspan="8"><span class="gt_from_md">Calibration fit: <strong>concentration (ppm) = slope × count rate + intercept</strong>, fit with two retained potential outliers. Confidence intervals propagated from 2000 bootstrap resamples of the outlier-affected ODR fit.</span></td></tr></tfoot>

diff --git a/README.md b/README.md
@@ -160,7 +160,7 @@ plt.show()
 
 ## Example Output
 
-Running `python examples/example.py` produces four figures and a results table. The first two show the clean calibration fit; the second two repeat the analysis with two retained potential outliers so you can see how they affect the result; the calibration is then applied — using the outlier-affected fit — to estimate count rates from known concentrations.
+Running `python examples/example.py` produces four figures and a results table. The script fits a fixed set of synthetic calibration standards checked into the repo at `examples/data/synthetic_calibration_standards.csv` (generated by `examples/Synthetic_Data_Generation.py` — see that script if you want to draw a new synthetic dataset; it's run manually and is not part of the regular build). The first two figures show the clean calibration fit; the second two repeat the analysis with two retained potential outliers so you can see how they affect the result; the calibration is then applied — using the outlier-affected fit — to convert unknown count rates into concentration estimates (ppm).
 
 ### Clean calibration fit
 
